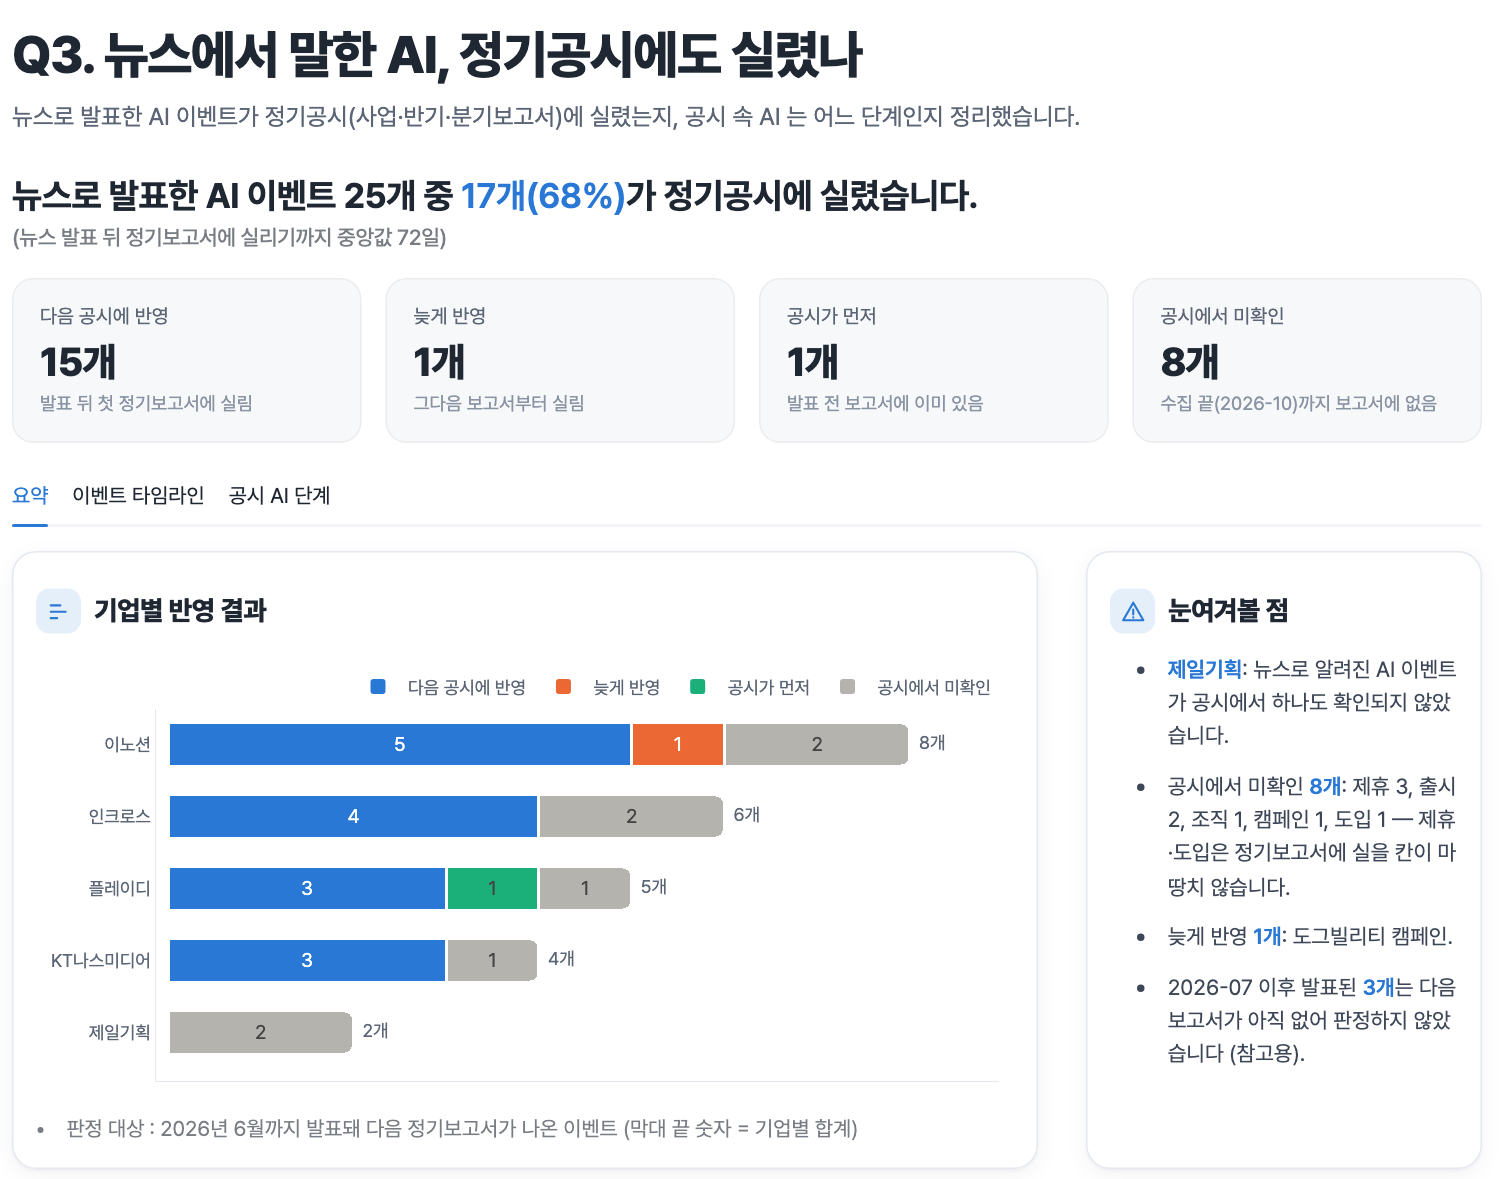
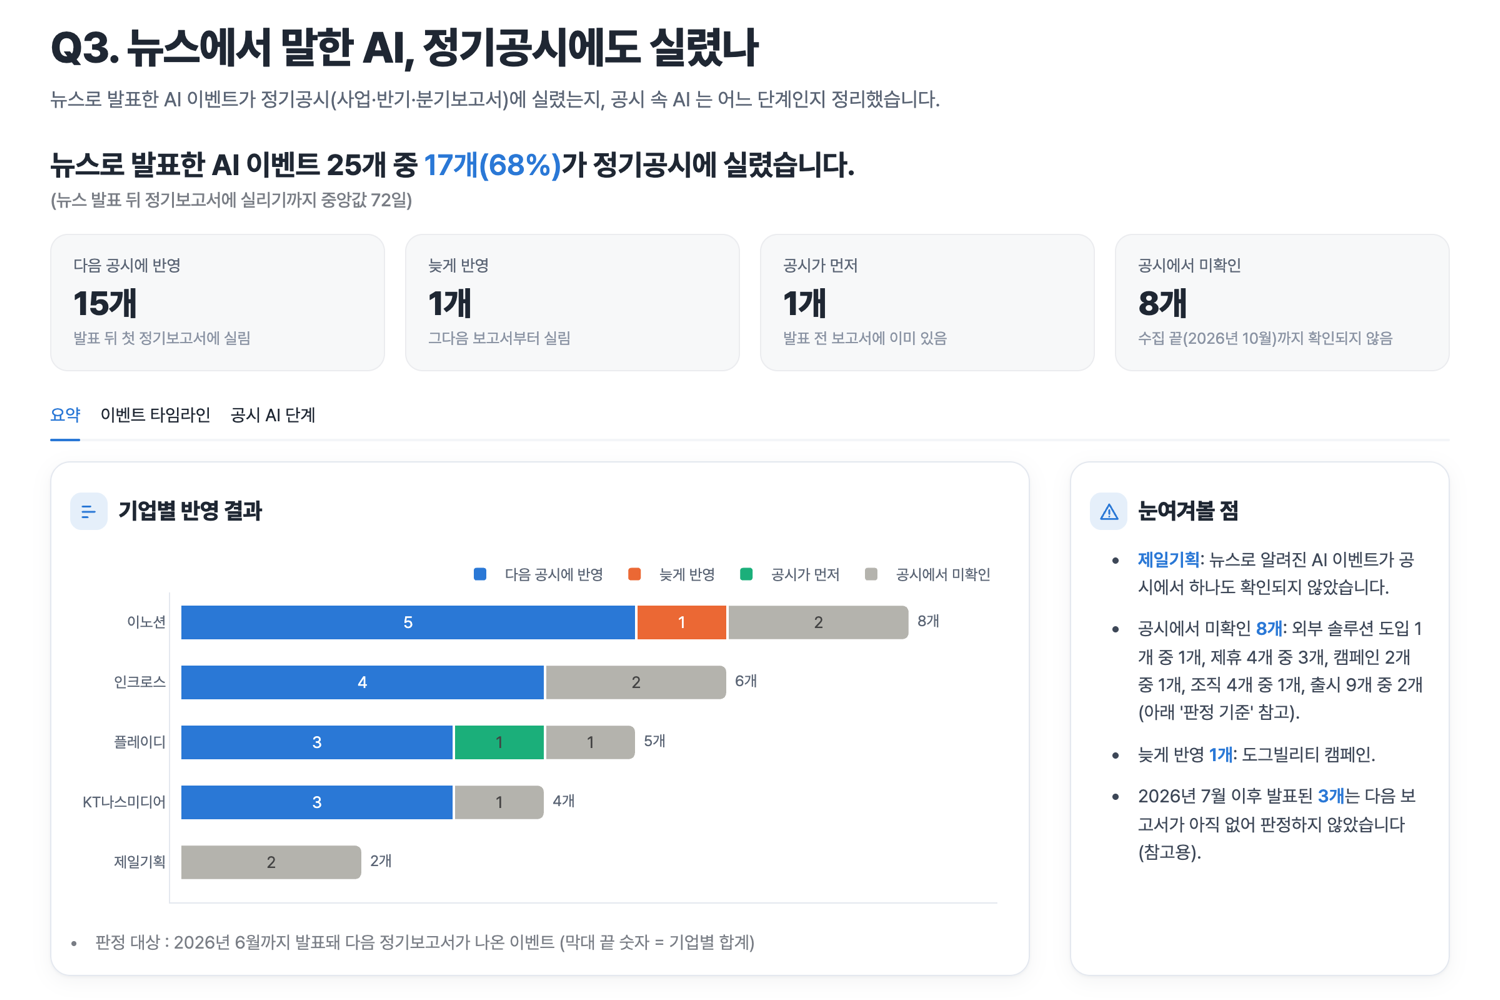
docs: 대시보드 전체 화면 캡처 8장 추가 · Q3 요약 그림 최신 화면으로 교체 · README main 병합 문장 갱신
- docs/report/img/screens/: 공시 챗봇 · 기획안 검토(입력·결과) · Q1 · Q2 · Q3(요약·이벤트 타임라인·공시 AI 단계)
  (너비 1600px, 필터 기본값, 접기·더보기 모두 펼침, 표는 모든 행 표시)
- README '화면' 절에 전체 화면 캡처(펼쳐 보기) 추가
- docs/report/img/q3_summary.png: #75 문구 수정 뒤 화면으로 다시 찍음 (숫자는 같음)
- README 리포트 절: 'main 은 예전 내용' 문장을 2026-11-23 main 병합(#80) 기준으로 고침

diff --git a/README.md b/README.md
@@ -25,6 +25,50 @@
 - 리포트(Q1·Q2·Q3) 맨 위 **리포트 요약**(뉴스 · 공시 · 결론)은 사이드바 필터에 맞춰 다시 계산됩니다 (`dashboard/conclusion.py`). 아래로 스크롤하면 한 번 접히고, 다시 열면 그대로 둡니다.
 - 필터 적용 범위: Q1·Q2·요약 '뉴스' = 기간 · 기업 · 뉴스 카테고리 / Q3 반영 판정·요약 '공시' = 기간(뉴스 발표일 기준) · 기업 / 공시 AI 단계·요약 '결론' = 기업만 (수집 기간 전체 정기공시)
 
+### 전체 화면 캡처
+
+필터는 모두 기본값(전체 기간 · 5개사 · 전체 카테고리)이고, 화면 안의 접기 · 더보기는 모두 펼치고 표는 모든 행이 보이게 찍었습니다. 이름을 누르면 펼쳐집니다. 파일은 [docs/report/img/screens/](docs/report/img/screens/)에 있습니다.
+
+<details><summary>공시 챗봇 (첫 화면)</summary>
+
+![공시 챗봇](docs/report/img/screens/chat.png)
+</details>
+
+<details><summary>기획안 검토 — 입력</summary>
+
+![기획안 검토 입력](docs/report/img/screens/plan.png)
+</details>
+
+<details><summary>기획안 검토 — 결과 (지난 기획안 열기)</summary>
+
+![기획안 검토 결과](docs/report/img/screens/plan_result.png)
+</details>
+
+<details><summary>리포트 › Q1 기사량·급증</summary>
+
+![Q1 기사량·급증](docs/report/img/screens/q1.png)
+</details>
+
+<details><summary>리포트 › Q2 화제 이슈</summary>
+
+![Q2 화제 이슈](docs/report/img/screens/q2.png)
+</details>
+
+<details><summary>리포트 › Q3 공시 반영 — 요약</summary>
+
+![Q3 요약](docs/report/img/screens/q3.png)
+</details>
+
+<details><summary>리포트 › Q3 공시 반영 — 이벤트 타임라인</summary>
+
+![Q3 이벤트 타임라인](docs/report/img/screens/q3_timeline.png)
+</details>
+
+<details><summary>리포트 › Q3 공시 반영 — 공시 AI 단계</summary>
+
+![Q3 공시 AI 단계](docs/report/img/screens/q3_levels.png)
+</details>
+
 ## 리포트
 
 | 무엇 | 어디서 보나 |
@@ -35,7 +79,7 @@
 | 대시보드 '리포트' 메뉴 | 문서가 아니라 분석 화면 — `streamlit run dashboard/app.py` → 사이드바 **리포트** → 맨 위에서 Q1 · Q2 · Q3 선택 (맨 위 '리포트 요약'은 필터에 맞춰 다시 계산) |
 | 설계 결정 기록 | [docs/decisions.md](docs/decisions.md) — 리포트의 데이터 · 분석 · 회고 장의 근거 |
 
-- 최신 리포트는 **`develop` 브랜치**에 있습니다. `main` 에는 마감 때 한 번에 합치므로 그 전까지는 예전 내용입니다.
+- 작업은 **`develop` 브랜치**에서 하고 `main` 에 한 번에 합칩니다. 2026-11-23 에 `main` 에 합쳤습니다 (#80).
 
 ## 폴더 구조
 
